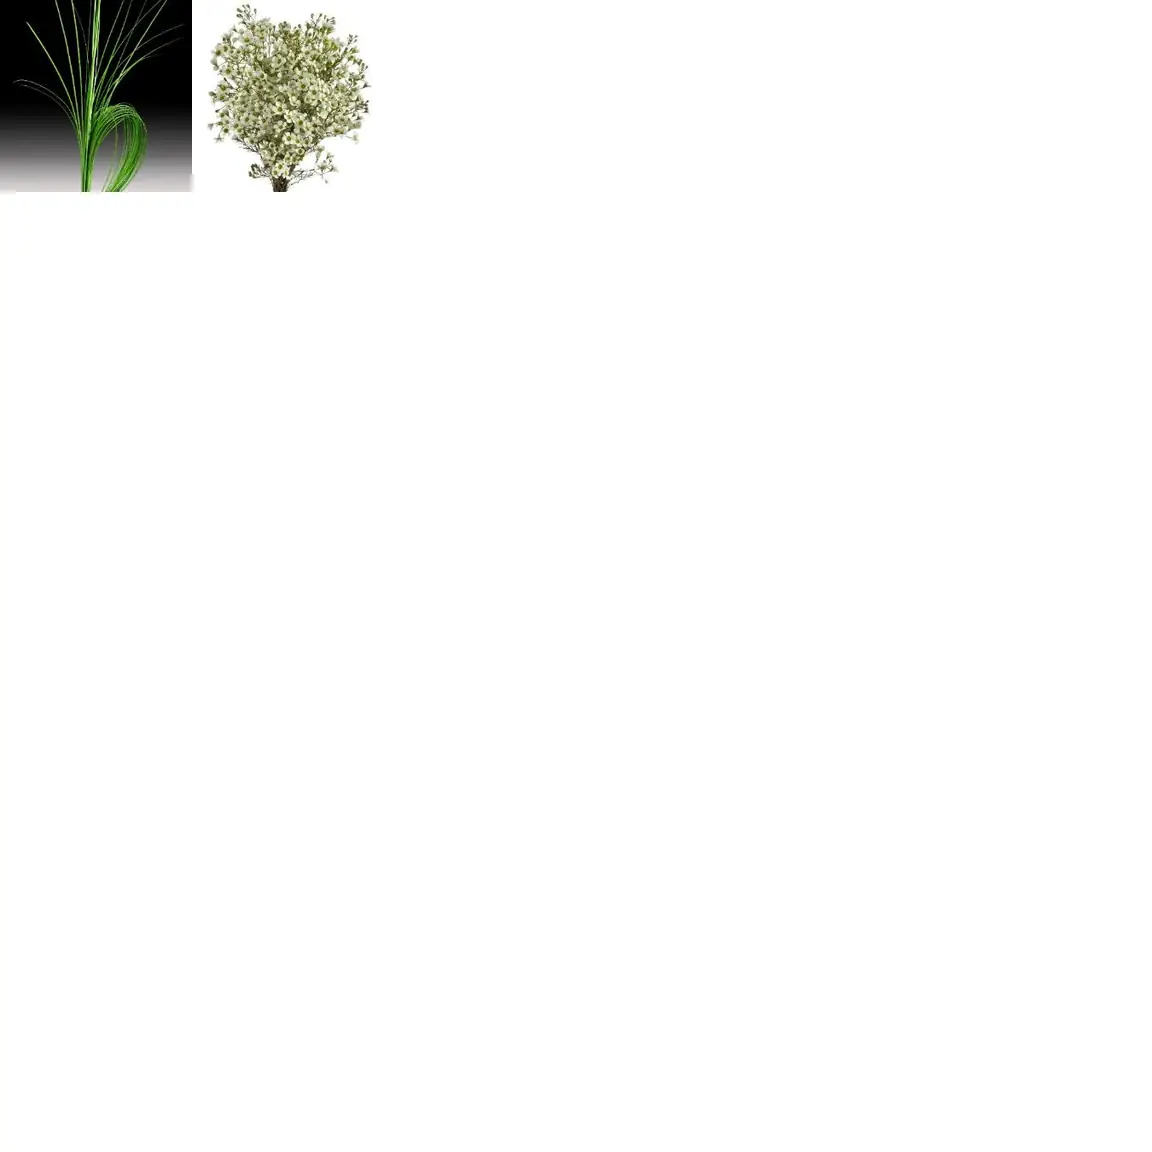
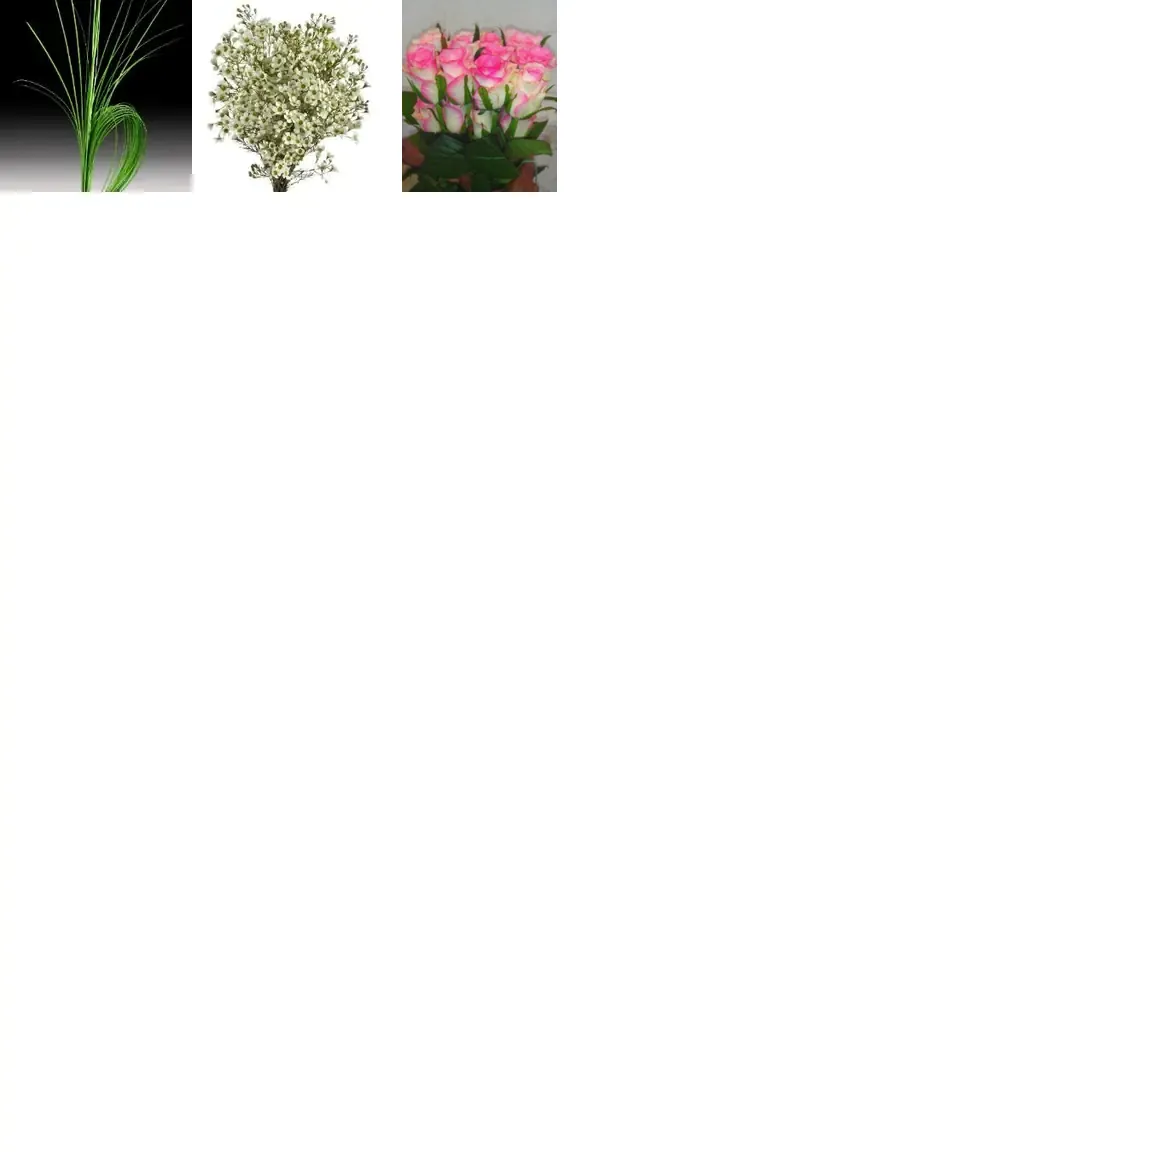
Add Rose Pink Jumilia (GRDFFL279) to the item list
Claude-Session: https://claude.ai/code/session_01QQHgGkGRip2Tujg5iBAxaU

Changed region(s): [[0.3438, 0.0, 0.5, 0.1875]]

diff --git a/sw.js b/sw.js
@@ -1,5 +1,5 @@
 // Keeps the whole app on the phone so it opens without internet.
-const CACHE='stock-count-10b338fcf9';
+const CACHE='stock-count-8484232e8f';
 const FILES=["./", "index.html", "items.json", "xlsx.full.min.js", "zxing.min.js", "manifest.webmanifest", "icon-180.png", "icon-192.png", "icon-512.png", "img/a0.webp", "img/a1.webp", "img/a2.webp", "img/a3.webp", "img/a4.webp"];
 self.addEventListener('install',e=>{e.waitUntil(caches.open(CACHE).then(async c=>{for(let i=0;i<FILES.length;i+=12)await c.addAll(FILES.slice(i,i+12))}).then(()=>self.skipWaiting()))});
 self.addEventListener('activate',e=>{e.waitUntil(caches.keys().then(ks=>Promise.all(ks.filter(k=>k!==CACHE).map(k=>caches.delete(k)))).then(()=>self.clients.claim()))});
